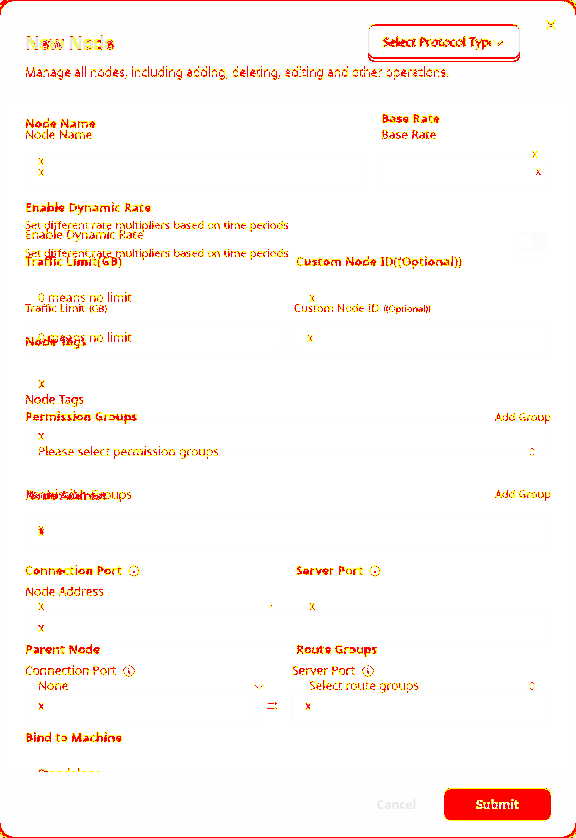
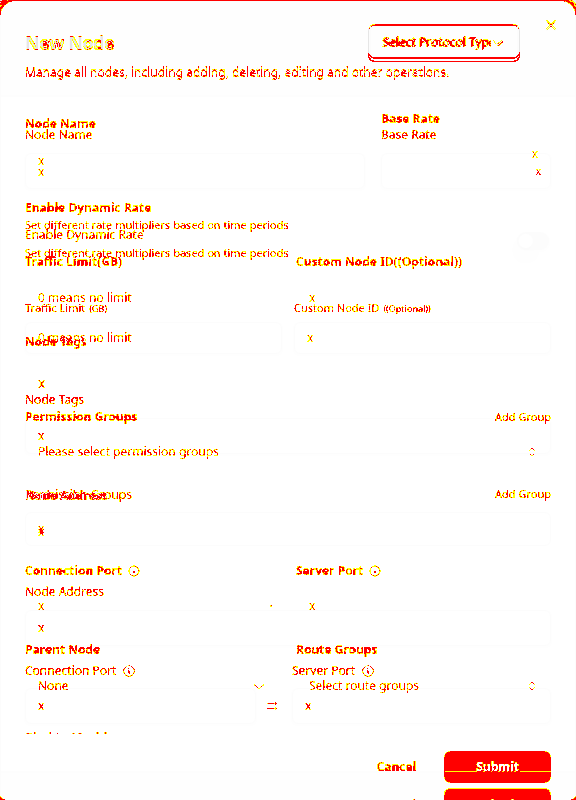
fix(admin): restore dialog heights to match 7001 gate ref (810/838px)

diff --git a/frontend/admin/src/pages/modules/PlanPage.tsx b/frontend/admin/src/pages/modules/PlanPage.tsx
@@ -453,7 +453,7 @@ export default function PlanPage() {
       </div>
 
       <Dialog open={dialogOpen} onOpenChange={setDialogOpen}>
-        <DialogContent className="!flex h-[784px] max-h-[784px] flex-col gap-0 overflow-hidden p-0 sm:max-w-[576px]">
+        <DialogContent className="!flex h-[810px] max-h-[810px] flex-col gap-0 overflow-hidden p-0 sm:max-w-[576px]">
           <DialogHeader className="shrink-0 px-6 pb-4 pt-6 text-left">
             <DialogTitle className="text-lg tracking-tight">
               {editing

diff --git a/frontend/admin/src/pages/modules/GiftCardPage.tsx b/frontend/admin/src/pages/modules/GiftCardPage.tsx
@@ -1351,7 +1351,7 @@ export default function GiftCardPage() {
 
       <Dialog open={dialogOpen} onOpenChange={setDialogOpen}>
 
-        <DialogContent className="!flex h-[784px] max-h-[784px] flex-col gap-0 overflow-hidden p-0 sm:max-w-[576px]">
+        <DialogContent className="!flex h-[810px] max-h-[810px] flex-col gap-0 overflow-hidden p-0 sm:max-w-[576px]">
 
           <DialogHeader className="shrink-0 xb-stack-15 px-6 pb-4 pt-6 text-left">
 

diff --git a/frontend/admin/src/pages/modules/ServerManagePage.tsx b/frontend/admin/src/pages/modules/ServerManagePage.tsx
@@ -1514,7 +1514,7 @@ export default function ServerManagePage() {
 
       <Dialog open={dialogOpen} onOpenChange={setDialogOpen}>
 
-        <DialogContent className="!flex h-[800px] max-h-[800px] flex-col gap-0 overflow-hidden p-0 sm:max-w-[576px]">
+        <DialogContent className="!flex h-[838px] max-h-[838px] flex-col gap-0 overflow-hidden p-0 sm:max-w-[576px]">
 
           <div className="shrink-0 border-b px-6 pb-4 pt-6">
 
